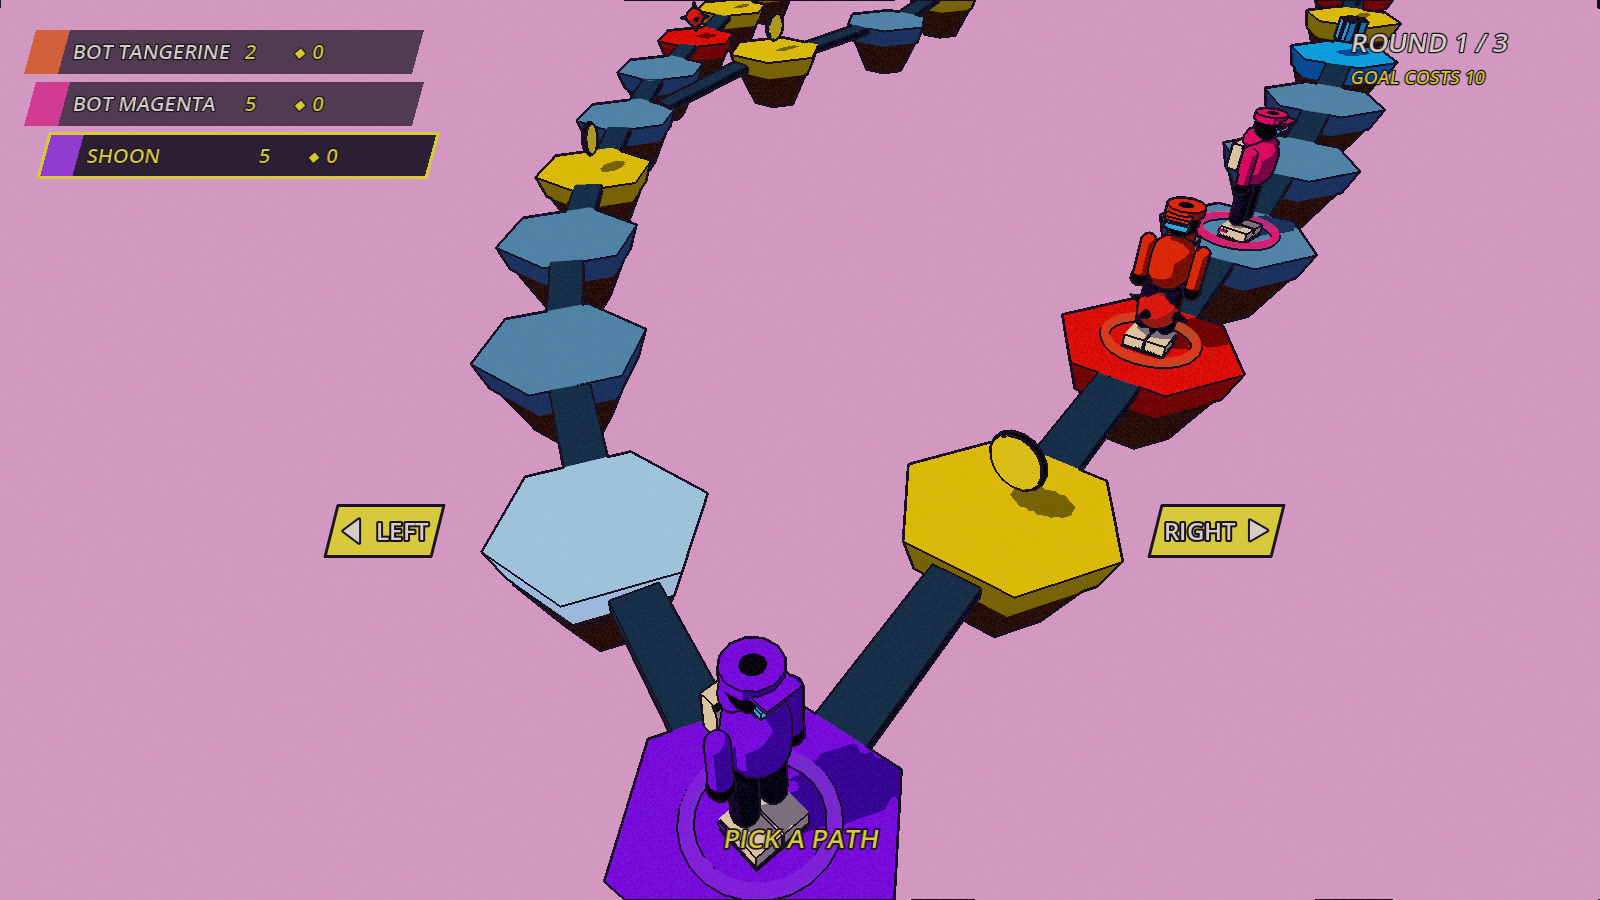
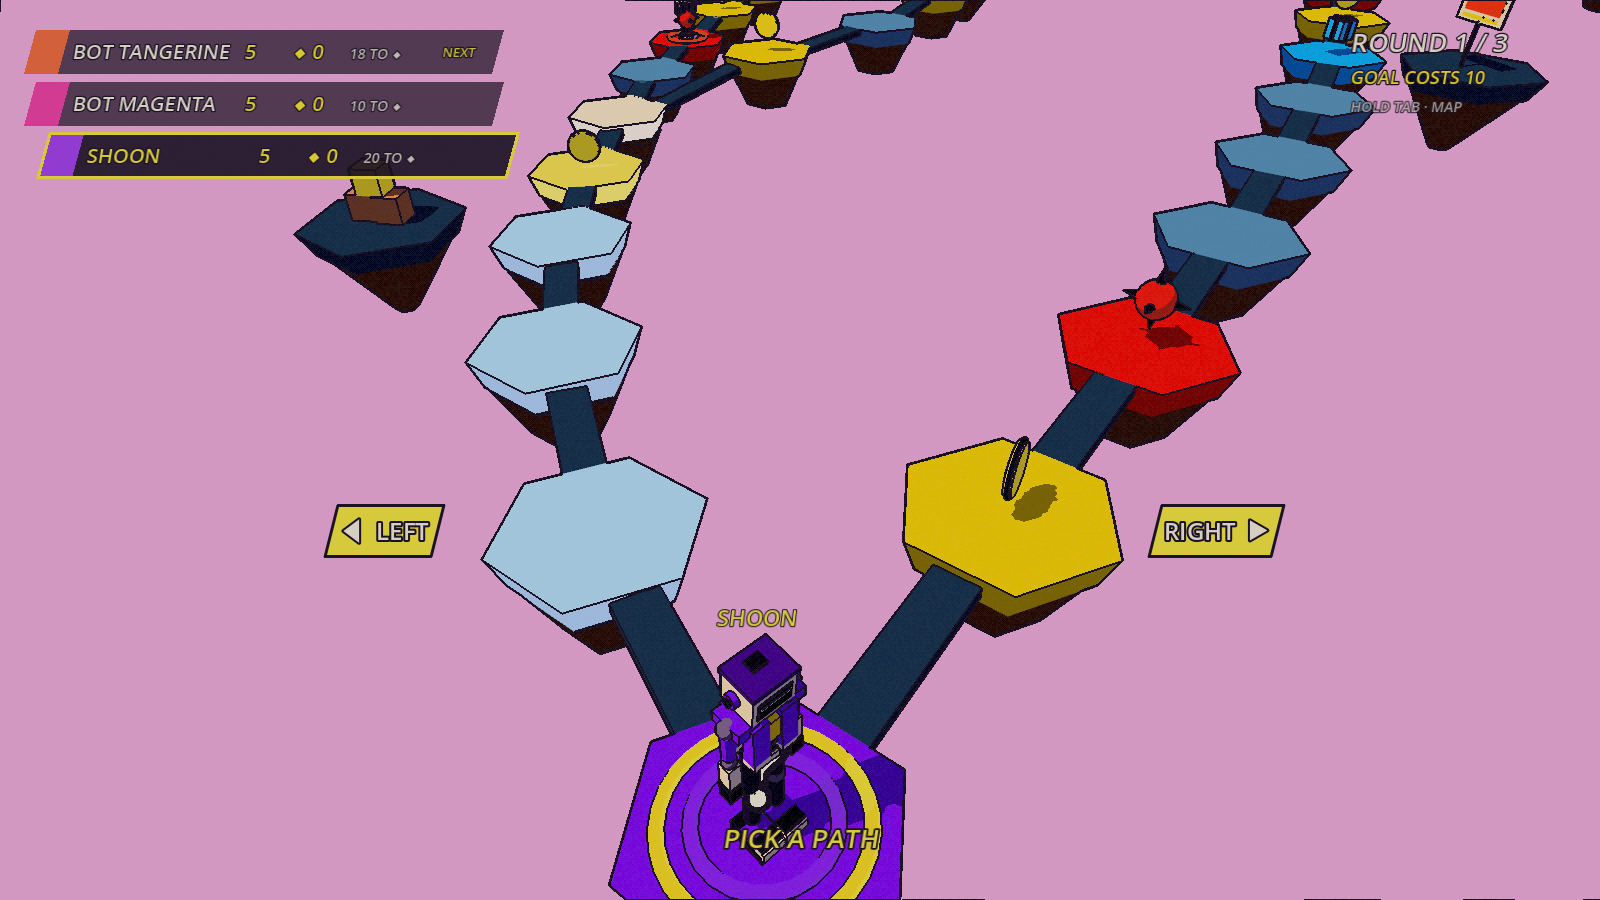
Quality-of-life pass and board detail
- fork hover previews the whole rest of the move down that branch, landing
  tile in glowing cream; hold Tab for the whole board (0.6 s blend)
- player rows: steps to the goal, NEXT tag, flash on coin changes; a
  ROUND N / M banner high and small at each round
- minigames: hold Tab for a scoreboard (kills, deaths, best first, you in
  the accent colour, the dead dimmed); TAB SCORES hint under the timer
- board detail: bomb-with-lit-fuse beacon over the goal with a flickering
  spark, eight seeded floating islands with a lamp, billboard, crate stack
  or sign drifting in the void, a pulsing ring under the active pawn
- harness: --board_map, --show_scoreboard

diff --git a/DECISIONS.md b/DECISIONS.md
@@ -133,3 +133,4 @@ Append-only. One line per assumption: date, the decision, the reason. Newest at 
 - 2026-09-19 — The 2.28 s (board start) and 1.64 s (first arena) stalls in Sean's log did not reproduce: CPU build times are 4–17 ms (board view) and 2–31 ms (match); windowed runs show no hitch at those points with a warm shader cache, and with the cache deleted only a 208 ms first-use compile at the arena start plus the usual 0.7–1.1 s first frame at boot. `Game._process` now logs any wall-clock frame gap over 150 ms with the phase (Godot caps the delta it hands `_process` to a few physics steps, so a delta-based check missed freezes); his next log names the moment if it happens again. No warm-up pass was built: nothing measured justified it.
 - 2026-09-19 — Sean: the red dot belongs on the AR sight's screen, in the middle, not above it. The screen is now a translucent cyan pane (unshaded, alpha 0.32, drawn without the depth test over the depth-squashed model) between two posts on the old housing, with the red dot drawn on it at the centre; the ADS pose puts the screen centre on the camera axis so you aim through the tinted glass. A holo sight, in the game's flat style.
 - 2026-09-19 — Characters rebuilt to Sean's references `reference/char1.webp` and `char2.jpg.webp` (FLCL's Canti, the TV-headed robot; Sean corrected my first guess of Bomb Rush): boxy cream screen head with a dark screen, a glowing scanline, a top plate and side ears in the identity colour on a thin neck, tilted down; an open bomber jacket in the identity colour with cream ribbed hems and a darker collar over a dark ribbed mechanical core with a yellow shirt in the opening; belt and buckle; thin arms with shoulder and elbow balls, cream forearm guards, dark gloves; long thin legs with knee balls; chunky dark boots with red soles, cream toe caps and a colour stripe. Same rig and animation as before, so the arena, board and podium all changed at once.
+- 2026-09-19 — Quality-of-life pass (Sean asked for QOL and a little more board detail). Board: hovering LEFT/RIGHT at a fork previews the whole rest of the move down that branch with the landing tile in the accent colour (steps_left counts the step onto the option; later forks follow their first branch); holding Tab pulls the camera up to the whole board and back (0.6 s each way); player rows show steps to the goal, a NEXT tag on the following seat and flash when coins change; a ROUND N / M banner opens each round. Minigames: holding Tab shows a scoreboard (kills, deaths, best first, you in the accent colour, the dead dimmed). Board detail: a bomb-with-lit-fuse beacon floats over the goal (◆ badge, flickering spark), eight seeded floating islands with a lamp, billboard, crate stack or sign drift in the void, and a pulsing ring sits under whoever's turn it is. Harness: `--board_map`, `--show_scoreboard`.

diff --git a/STATUS.md b/STATUS.md
@@ -287,6 +287,14 @@ red soles. Same rig, so arena, board and podium changed together. The AR's sight
 dot on the screen itself (a translucent pane you aim through at ADS). `figures.png`,
 `board_turn.png`, `last_stand_spectate.png`, `ar_ads.png`.
 
+Quality-of-life pass (Sean asked for QOL and more board detail): fork hover previews the whole
+move down that branch with a cream landing tile; hold Tab for the whole board (blends in and
+out); rows show steps to the goal, a NEXT tag and flash on coin changes; a ROUND N / M banner;
+Tab scoreboard in the minigames (kills, deaths, best first). Board detail: a bomb-with-fuse
+beacon over the goal, eight floating islands with props drifting in the void, a pulsing ring
+under the active pawn. `board_fork.png`, `board_map.png`, `board_turn.png`,
+`arena_scoreboard.png`. Harness: `--board_map`, `--show_scoreboard`.
+
 ### Bugs found and fixed today (all measured before and after)
 
 1. Client's view of remote players lagged whole tick loops → 25 % hit confirmation. netfox

diff --git a/README.md b/README.md
@@ -28,7 +28,8 @@ jump, LMB fire, RMB scope, 1/2/Q weapons, R reload (the sniper loads one round a
 trigger interrupts it), LMB switches who you watch when you are
 out in LAST STAND, Esc pauses (resume, settings, leave), F5
 reloads `tuning/*.json` in debug builds. Board controls: click ROLL, a fork button, an item
-button and then a player row, or Space / A D / 1 2 / Enter. Sound is synthesised at startup;
+button and then a player row, or Space / A D / 1 2 / Enter. Hover LEFT or RIGHT at a fork to
+see where the move lands; hold Tab for the whole board, and in a minigame for the scoreboard. Sound is synthesised at startup;
 nothing is loaded from disk.
 
 Online from a shell: `-- --host_online --bots=1 --start --expect=1` prints `HOST_CODE=…`;
